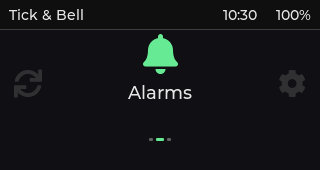
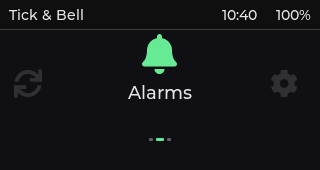
Add the Tick & Bell case study and publish the guide automatically

diff --git a/website/reader.css b/website/reader.css
@@ -1,0 +1,45 @@
+:root {
+  --md-text-font: ui-sans-serif, system-ui, -apple-system, BlinkMacSystemFont, "Segoe UI";
+  --md-code-font: ui-monospace, Menlo, Consolas;
+}
+[data-md-color-scheme="default"] {
+  --md-primary-fg-color:#142f39; --md-primary-bg-color:#f8fcfb;
+  --md-accent-fg-color:#087466; --md-typeset-a-color:#086b60;
+  --md-default-bg-color:#fbfcfa; --md-default-fg-color:#202d31;
+  --md-default-fg-color--light:#43565b;
+  --reader-border:#d2e1df; --reader-panel:#e8f3ef; --reader-kicker:#22594f;
+}
+[data-md-color-scheme="slate"] {
+  --md-primary-fg-color:#142f39; --md-primary-bg-color:#f8fcfb;
+  --md-accent-fg-color:#8cddc9; --md-typeset-a-color:#9fe0cc;
+  --md-default-bg-color:#162328; --md-default-fg-color:#ecf3ef;
+  --md-default-fg-color--light:#c3d5d0;
+  --reader-border:#43625f; --reader-panel:#223b3b; --reader-kicker:#b7e5d8;
+}
+.md-header { box-shadow:none; }
+.md-header__topic:first-child { font-weight:700; letter-spacing:.02em; }
+.md-tabs__link { font-size:.78rem; }
+.md-typeset { font-size:.9rem; line-height:1.7; }
+.md-typeset h1, .md-typeset h2 { font-family:Georgia, "Times New Roman", serif; letter-spacing:-.022em; color:var(--md-default-fg-color); }
+.md-typeset h1 { margin-bottom: .65em; font-weight:700; }
+.md-typeset h2 { font-weight:700; padding-bottom:.2em; border-bottom:1px solid var(--reader-border); }
+.md-typeset .reader-cover { padding:clamp(1.15rem, 4vw, 2.65rem); background:var(--reader-panel); border:1px solid var(--reader-border); border-radius:.3rem; }
+.md-typeset .reader-cover h1 { font-size:clamp(1.9rem, 4.2vw, 3.7rem); line-height:1.02; margin:.24em 0 .38em; }
+.md-typeset .edition-label { color:var(--reader-kicker); font-size:.68rem; font-weight:800; letter-spacing:.13em; margin:0 0 1rem; }
+.md-typeset .reader-cover p { max-width:40rem; }
+.md-typeset .reader-cover .md-button { padding:.42rem .8rem; margin:.3rem .35rem .1rem 0; border-radius:.2rem; font-size:.77rem; }
+.md-typeset .reader-cover .md-button--primary { background:#155449; color:#fff; border-color:#155449; }
+.md-typeset .reader-cover .md-button--primary:hover { background:#0b3f36; }
+.md-typeset .reader-note { font-size:.76rem; color:var(--md-default-fg-color--light); padding:.25rem 0 .3rem; }
+.md-typeset .admonition, .md-typeset details { font-size:.8rem; }
+.md-typeset figure.reader-shot { margin:1.65rem 0; padding:.85rem; border:1px solid var(--reader-border); border-radius:.3rem; text-align:left; background:var(--reader-panel); }
+.md-typeset figure.reader-shot img { width:320px; max-width:100%; height:auto; border-radius:.2rem; vertical-align:middle; }
+.md-typeset figure.reader-shot figcaption { font-style:normal; text-align:left; font-size:.72rem; margin:.55rem 0 0; color:var(--md-default-fg-color--light); }
+.md-typeset table:not([class]) { font-size:.75rem; }
+.md-typeset a:focus-visible, input:focus-visible { outline:2px solid var(--md-accent-fg-color); outline-offset:2px; }
+.md-nav { font-size:.73rem; }
+.md-typeset .reader-cover .headerlink { display:none; }
+.md-typeset .reader-cover h1 + p { margin-top:.65em; }
+.md-typeset .reader-cover .md-button:not(.md-button--primary):hover {
+  background:var(--md-default-bg-color); color:var(--md-typeset-a-color); border-color:currentColor;
+}

diff --git a/website/build.py b/website/build.py
@@ -1,0 +1,76 @@
+"""Build the public guide site from committed Markdown, never the working tree."""
+from pathlib import Path
+import re
+import shutil
+import subprocess
+import sys
+import tarfile
+import tempfile
+
+HERE = Path(__file__).resolve().parent
+REPO = HERE.parent
+OUTPUT = REPO / "build" / "online-guide"
+PROJECT = "https://github.com/Prophet60191/m5stack-cardputer-zero-app-guide"
+HOME = "https://prophet60191.github.io/m5stack-cardputer-zero-app-guide/"
+LINK = re.compile(r"\[([^\]\n]+)\]\(([^()\s]+)\)")
+
+
+def git(*args, **kwargs):
+    return subprocess.run(["git", "-C", str(REPO), *args], **kwargs)
+
+
+def build():
+    revision = git("rev-parse", "HEAD", capture_output=True, check=True, text=True).stdout.strip()
+    with tempfile.TemporaryDirectory(prefix="cardputer-guide-") as tmp:
+        scratch = Path(tmp).resolve()
+        source = scratch / "source"
+        source.mkdir()
+        git("archive", f"--output={scratch / 'source.tar'}", revision, "docs", "README.md", "LICENSE", check=True)
+        with tarfile.open(scratch / "source.tar") as archive:
+            archive.extractall(source, filter="data")
+        stage = scratch / "stage"
+        stage.mkdir()
+        shutil.copytree(source / "docs", stage / "docs")
+        shutil.copyfile(source / "LICENSE", stage / "LICENSE.txt")
+        (stage / "source-revision.txt").write_text(revision + "\n")
+        (stage / "styles").mkdir()
+        shutil.copyfile(HERE / "reader.css", stage / "styles" / "reader.css")
+
+        def rewrite(text, original, output):
+            def convert(match):
+                label, address = match.groups()
+                if address.startswith(("#", "https://", "http://", "mailto:")):
+                    return match.group()
+                rel, separator, fragment = address.partition("#")
+                path = (original.parent / rel).resolve().relative_to(source).as_posix()
+                if fragment == "develop-in-the-desktop-simulator--and-why":
+                    fragment = "develop-in-the-desktop-simulator-and-why"
+                tail = separator + fragment
+                if path == "README.md":
+                    prefix = "../" * (len(output.relative_to(stage).parts) - 1)
+                    return f"[{label}]({prefix}index.md{tail})"
+                if (source / path).is_file() and path.startswith("docs/"):
+                    return f"[{label}]({rel}{tail})"
+                if git("cat-file", "-e", f"{revision}:{path}", capture_output=True).returncode:
+                    raise ValueError(f"Missing source link in {original.name}: {address}")
+                return f"[{label}]({PROJECT}/blob/{revision}/{path}{tail})"
+            return LINK.sub(convert, text)
+
+        for original in (source / "docs").rglob("*.md"):
+            output = stage / original.relative_to(source)
+            output.write_text(rewrite(original.read_text(), original, output))
+        original = source / "README.md"
+        output = stage / "index.md"
+        readme = original.read_text().replace(f"**[Read the online guide]({HOME})**\n\n", "", 1)
+        readme = re.sub(r"^<h1[^>]*>.*?</h1>", "# Building apps for the Cardputer Zero", readme, count=1)
+        output.write_text(rewrite(readme, original, output)
+                          + f"\n\n---\n\n[Guide source on GitHub]({PROJECT}/tree/{revision})"
+                          + " · [Documentation license](LICENSE.txt)\n")
+        shutil.copyfile(HERE / "mkdocs.yml", scratch / "mkdocs.yml")
+        subprocess.run([sys.executable, "-m", "mkdocs", "build", "--strict",
+                        "-f", str(scratch / "mkdocs.yml"), "-d", str(OUTPUT)], check=True)
+        assert (OUTPUT / "index.html").is_file() and (OUTPUT / "search/search_index.json").is_file()
+
+
+if __name__ == "__main__":
+    build()

diff --git a/examples/ui-patterns/carousel-position/carousel_layout.h b/examples/ui-patterns/carousel-position/carousel_layout.h
@@ -1,0 +1,44 @@
+// SPDX-License-Identifier: MIT
+#pragma once
+
+#include "lvgl.h"
+
+namespace cp0_ui {
+
+// Fixed positions for the NFC-style 320x170 menu. These layout helpers do not
+// own LVGL objects, interpret keys, or require a subtitle or footer.
+struct CarouselLayout {
+    static constexpr int screen_width = 320, screen_height = 170;
+    static constexpr int center_x = 52, center_y = 32;
+    static constexpr int center_width = 216, center_height = 105;
+    static constexpr int center_icon_y = 33, center_icon_px = 40;
+    static constexpr int title_y = 82, dots_y = 138;
+    static constexpr int left_icon_x = 14, right_icon_x = 270;
+    static constexpr int side_icon_y = 69, side_icon_width = 37, side_icon_px = 28;
+
+    // body_top is the screen y-coordinate of the shared parent.
+    static void place_side_icon(lv_obj_t* icon, bool right, int body_top) {
+        lv_obj_set_pos(icon, right ? right_icon_x : left_icon_x, side_icon_y - body_top);
+        lv_obj_set_width(icon, side_icon_width);
+        lv_obj_set_style_text_align(icon, LV_TEXT_ALIGN_LEFT, 0);
+    }
+    static void place_center(lv_obj_t* group, int body_top) {
+        lv_obj_set_pos(group, center_x, center_y - body_top);
+        lv_obj_set_size(group, center_width, center_height);
+    }
+    static void place_center_icon(lv_obj_t* icon) {
+        place_centered_label(icon, center_icon_y);
+    }
+    static void place_title(lv_obj_t* title) {
+        place_centered_label(title, title_y);
+    }
+
+private:
+    static void place_centered_label(lv_obj_t* item, int screen_y) {
+        lv_obj_set_pos(item, 0, screen_y - center_y);
+        lv_obj_set_width(item, center_width);
+        lv_obj_set_style_text_align(item, LV_TEXT_ALIGN_CENTER, 0);
+    }
+};
+
+} // namespace cp0_ui

diff --git a/examples/ui-patterns/carousel-position/README.md b/examples/ui-patterns/carousel-position/README.md
@@ -20,6 +20,18 @@ Desktop simulator capture, not a hardware photo. The simulated 100% is the offic
 - Hide it for zero or one item. This implementation is bounded at 24 slots;
   use another presentation if the slots no longer fit in the available width.
 
+## Reusable layout
+
+Use [carousel_layout.h](carousel_layout.h) for NFC Tools’ 320×170 geometry.
+The center group is 216×105 at (52, 32), with a 40 px icon at y=33 and a
+centered title at y=82. The 28 px side icons use 37 px lanes at x=14 and
+x=270, y=69. The dots start at y=138. Select the corresponding LVGL
+symbol fonts and provide your own glyphs, labels and colors.
+
+The helper does not own navigation or the slide animation, and it does not
+require a subtitle. Tick & Bell is the first consumer. See its
+[case study](../../../docs/case-studies/tick-bell.md) for the visual result.
+
 ## Why this is a separate pattern
 
 The official Template supplies a UI framework, not this particular visual position cue. The Mesh carousel already controls movement and animation; the dots answer a different question: which item is selected when left/right wraps. NFC Tools proved the visual idea with six fixed slots. The extracted header centers any supported item count so each app can reuse it without hard-coded coordinates, adopting the NFC UI, or adding another keyboard handler.
@@ -46,7 +58,7 @@ reviewed working-tree snapshot (base `8e4c884`; source SHA-256
[1 lines of base64/hex data omitted]
 That source uses fixed coordinates for six entries. Tick & Bell now also matches NFC Tools’ vertical title and dot positions. The component preserves the visual proportions but calculates centered positions for the app’s menu count. NFC Tools remains the design reference, not a runtime dependency.
 
-Tick & Bell is the first integration of this shared header. Desktop event-path checks showed movement across all three slots, wrap from first to last, and theme recoloring without changing selection. The 0.1.2 simulator captures verified the revised spacing and wrap; physical input and display on a handheld remain separate checks. NFC Tools retains
+Tick & Bell is the first integration of this shared header. Desktop event-path checks showed movement across all three slots, wrap from first to last, and theme recoloring without changing selection. The 0.1.3 simulator captures verified the revised spacing and wrap; physical input and display on a handheld remain separate checks. NFC Tools retains
 its own existing indicator. No migration of Mesh, NFC Tools, or other apps is
 implied. Verify home on a device in both themes, forward/back wrap, labels
 clear of the bar, and unchanged submenu navigation before adopting it elsewhere.

diff --git a/docs/case-studies/tick-bell.md b/docs/case-studies/tick-bell.md
@@ -1,0 +1,41 @@
+# Tick & Bell: timers and alarms
+
+[Browse the Tick & Bell source on GitHub](https://github.com/Prophet60191/m5stack-cardputer-zero-tick-bell)
+
+Tick & Bell is a native timer and alarm for the Cardputer Zero. It is a
+worked example to read alongside the guide, not an official M5Stack Store app.
+
+## Home menu
+
+![Alarms selected, with the active dot centered below the menu name](../images/tick-bell-carousel-position.png)
+
+The centered icon and title identify the selected menu. Side icons show nearby
+choices and the wider dot marks position without relying on color. Left/Right
+changes the home selection; Up/Down moves through submenu rows.
+See the [shared carousel layout and position indicator](../../examples/ui-patterns/carousel-position/README.md).
+
+## Alarms and sounds
+
+| Next-hour default | Date selector | Sound picker |
+| --- | --- | --- |
+| ![New alarm defaults to 12:00 AM and the following date](../images/tick-bell-alarm-midnight.png) | ![Year, month, and day fields](../images/tick-bell-alarm-date.png) | ![Digital tone selected with a preview action](../images/tick-bell-alarm-sounds.png) |
+
+At a simulated 11:59 PM, a new alarm defaults to midnight and advances to
+the next date. These 320×170 desktop captures use synthetic data; the
+simulator battery value is not a device measurement.
+
+## Where the patterns came from
+
+- **Official M5Stack foundation:** the pinned CardputerZero Template and LVGL
+  supply rendering, device status and input routing.
+- **Adapted:** NFC Tools provides the center group, side icon lanes, icon sizes
+  and dot placement. Mesh informs the directional slide motion.
+- **Added here:** reusable headers separate the layout and position cue from
+  navigation, so apps bring their own glyphs and labels. A user-session
+  scheduler keeps alarms active after the window closes; it does not wake a
+  powered-off or suspended device.
+
+[Clock-core tests](https://github.com/Prophet60191/m5stack-cardputer-zero-tick-bell/blob/main/integration/clock_core_test.cpp)
+cover scheduling and persistence separately from the interface. Simulator
+captures and native packaging do not substitute for physical keypad, speaker
+or suspend checks.

diff --git a/website/README.md b/website/README.md
@@ -1,0 +1,19 @@
+# Maintaining the online guide
+
+Edit the Markdown and images in the guide's `docs/` directory and top-level
+`README.md`. No duplicate website chapters are maintained. A push or merge to
+`main` builds the website, its search index and the source revision marker.
+Branches, pull requests and uncommitted local files are not deployed.
+
+For a local check of your committed branch:
+
+```sh
+python3 -m pip install -r website/requirements.txt
+python3 website/build.py
+python3 -m http.server --bind 127.0.0.1 --directory build/online-guide 8765
+```
+
+For a new chapter, add its link in the guide's contents and, if appropriate,
+in `website/mkdocs.yml`. MkDocs indexes content even without a sidebar entry.
+Check **Actions → Publish online guide** for deployment status. Fix build
+errors on the source branch rather than editing the generated website.

diff --git a/README.md b/README.md
@@ -86,7 +86,7 @@ The [UI preference record](docs/ui-preferences.md) tracks my design decisions:
 the exact Mesh home carousel and Mesh list-selection base are confirmed;
 submenu chevrons and overflow indicators are specified. Other components remain open.
 
-The [carousel position indicator](examples/ui-patterns/carousel-position/README.md) is the first small LVGL component for the shared home-menu pattern.
+The [shared carousel layout and position indicator](examples/ui-patterns/carousel-position/README.md) define the geometry, icon sizes and position cue. See the [Tick & Bell case study](docs/case-studies/tick-bell.md) or [browse the app source](https://github.com/Prophet60191/m5stack-cardputer-zero-tick-bell).
 
 My [library principles](docs/library-principles.md) record the preferences and
 design choices I want to reuse across my apps, including appearance,

diff --git a/docs/ui-preferences.md b/docs/ui-preferences.md
@@ -46,7 +46,7 @@ the row, use NFC Tools’ vertical spacing (menu title top y=82, dot row y=138 o
 for the others, and update it with the carousel selection, including wrap.
 Do not animate or add a footer for the indicator. This is distinct from the
 right-edge overflow bar used on a submenu list. The [reusable LVGL component](../examples/ui-patterns/carousel-position/README.md)
-and its source notes live with the guide.
+and its source notes live with the guide. The same reference uses a 40 px center icon at y=33 and 28 px side icons in lanes starting at x=14 and x=270, y=69. The center icon and title share a 216 px lane at x=52.
 
 Keep the top-bar battery percentage plain text and right-aligned when available.
 No battery glyph and no fabricated percentage if the device does not report one.

diff --git a/docs/04-ui-and-polish.md b/docs/04-ui-and-polish.md
@@ -6,7 +6,7 @@ For home carousels, use the [position indicator component](../examples/ui-patter
 
 ![Tick & Bell simulator showing the spacing between the Alarms label and its carousel dots](images/tick-bell-carousel-position.png)
 
-*Tick & Bell in the desktop simulator. The wider center dot marks the selected menu.*
+*Tick & Bell in the desktop simulator. The wider center dot marks the selected menu.* See the [Tick & Bell case study](case-studies/tick-bell.md) for the alarm form and sound picker.
 
 Make every screen predictable, readable and usable from the keyboard. Apply the
 patterns relevant to the chosen UI stack and app behavior.

diff --git a/CHANGELOG.md b/CHANGELOG.md
@@ -1,5 +1,11 @@
 # Changelog
 
+## 2026-11-26 — Tick & Bell and online publishing
+
+- Add Tick & Bell source links and current simulator screenshots.
+- Add reusable NFC-style home-menu geometry and icon sizes.
+- Rebuild the online guide from the repository on pushes to main.
+
 ## 2026-11-26 — Carousel position indicator
 
 - Add a reusable home-carousel position row based on NFC Tools, with the same vertical title and dot positions.
